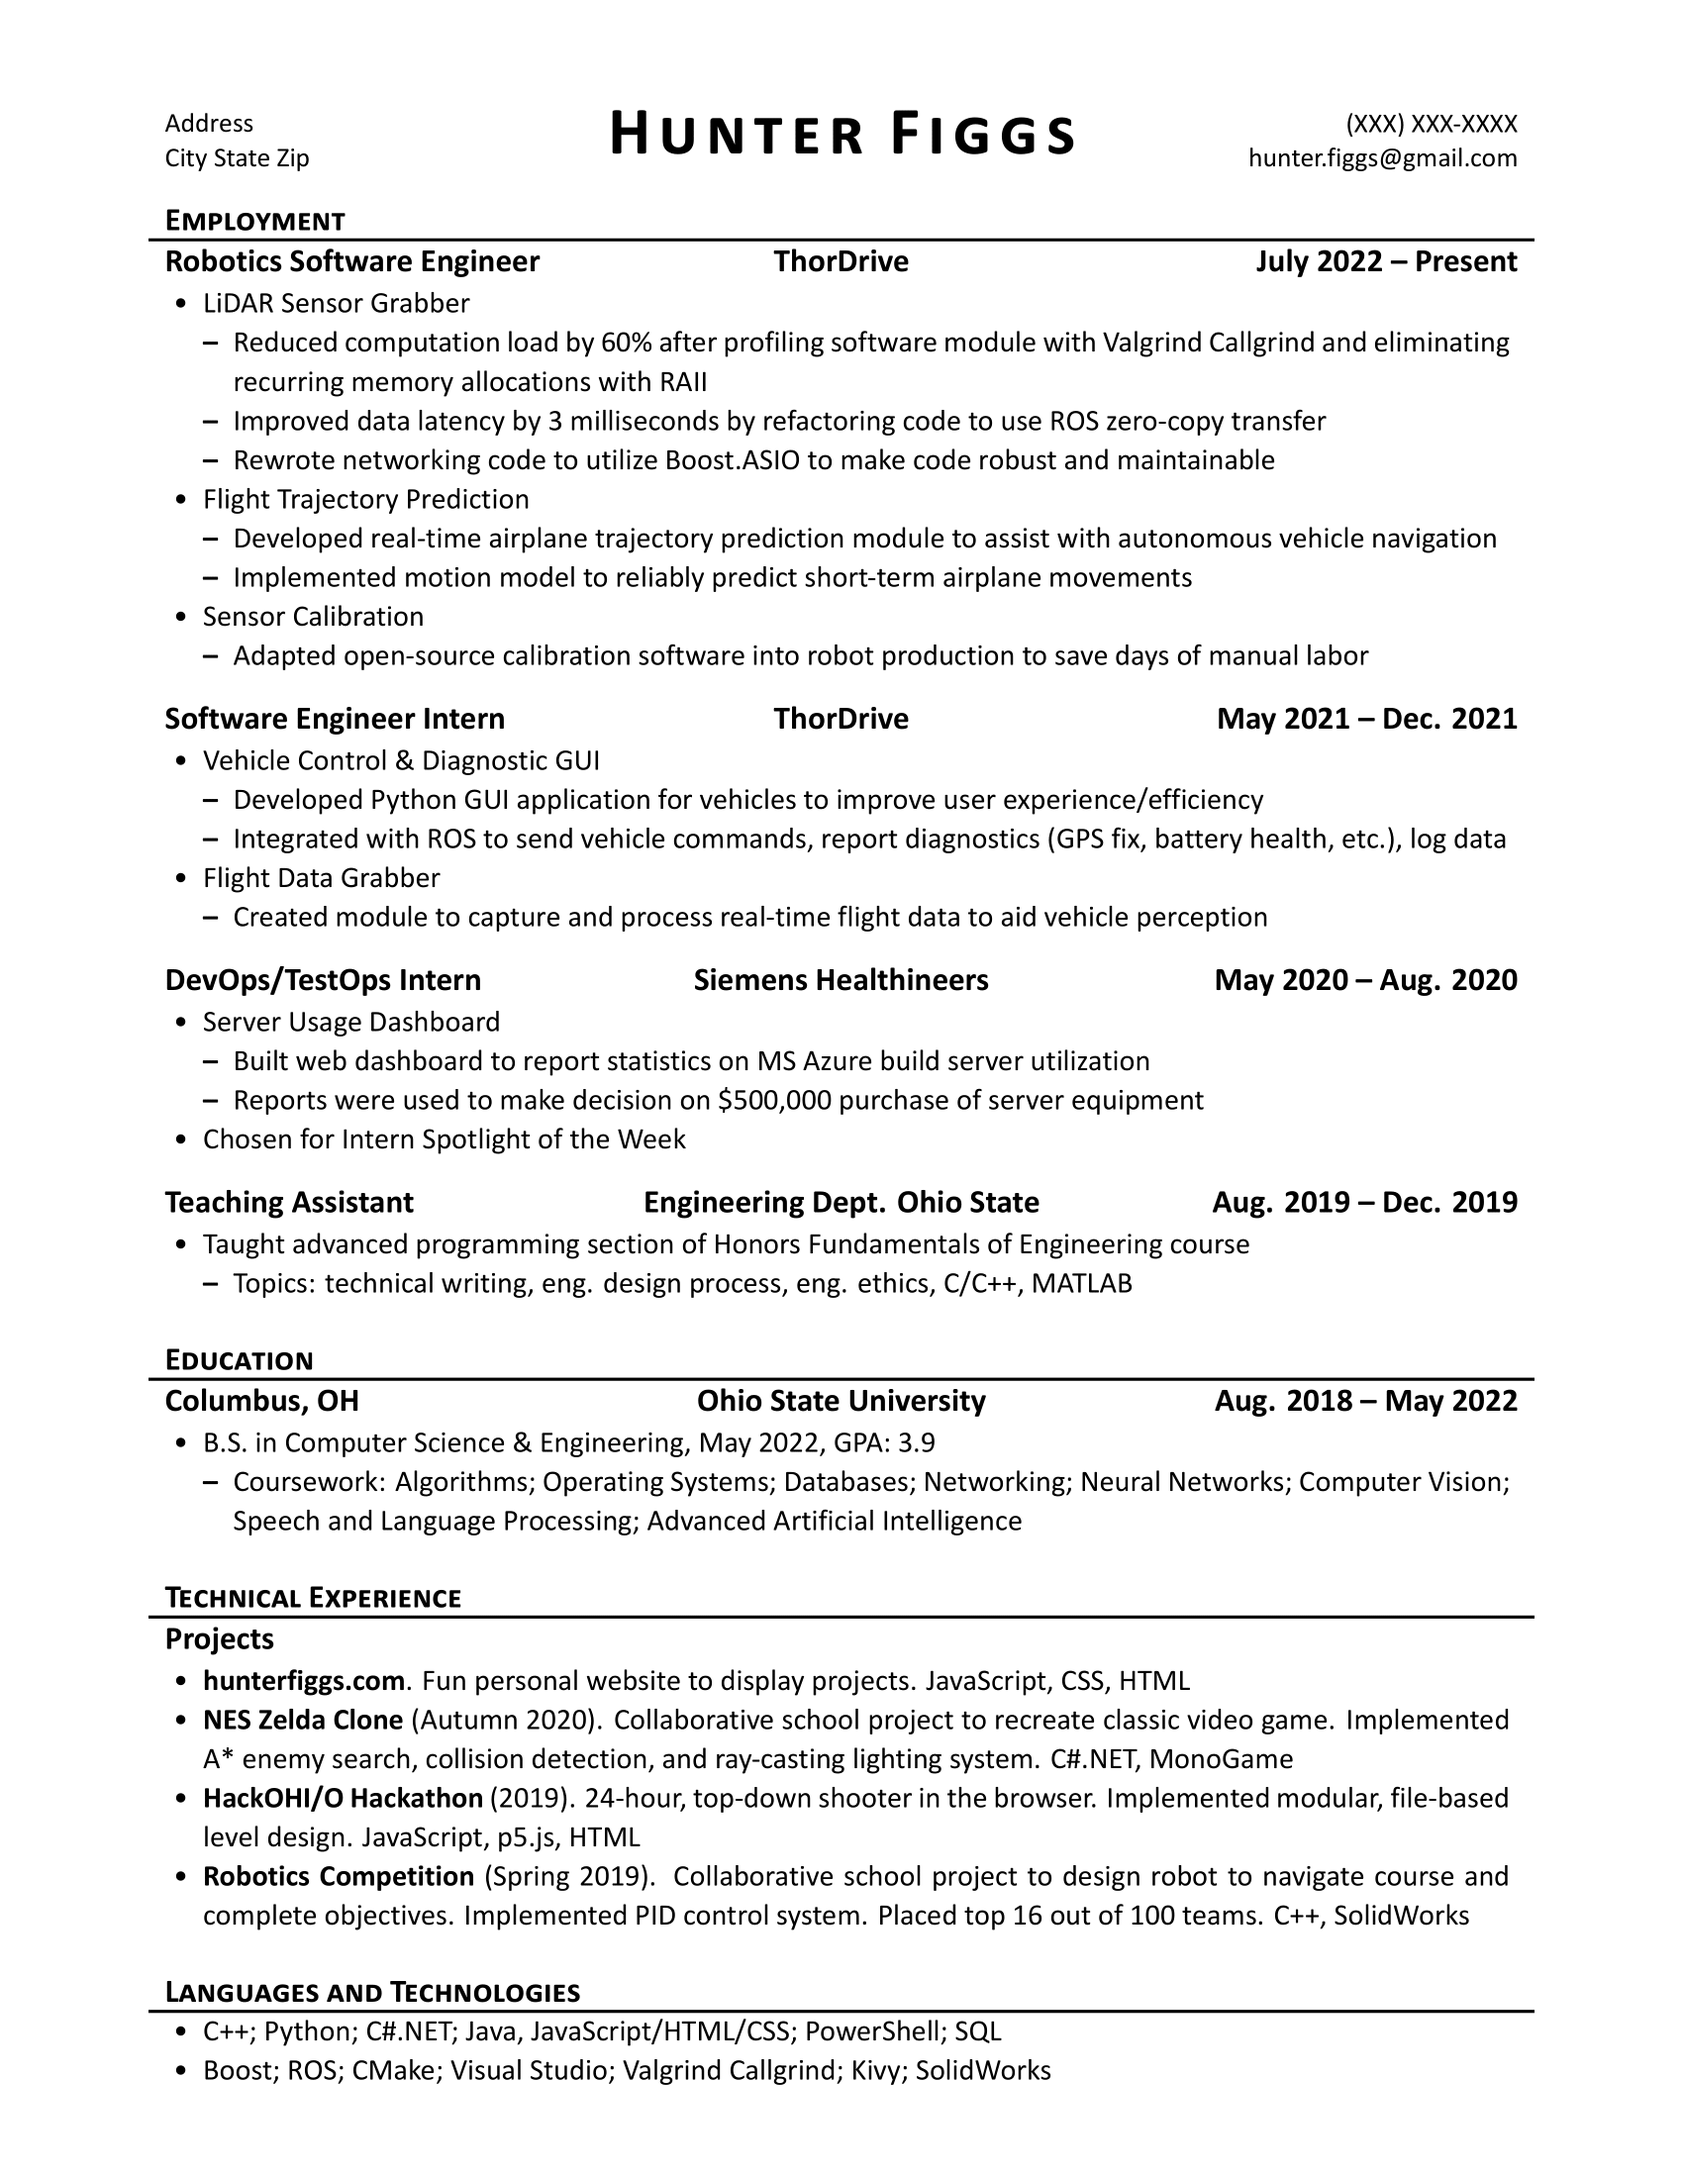
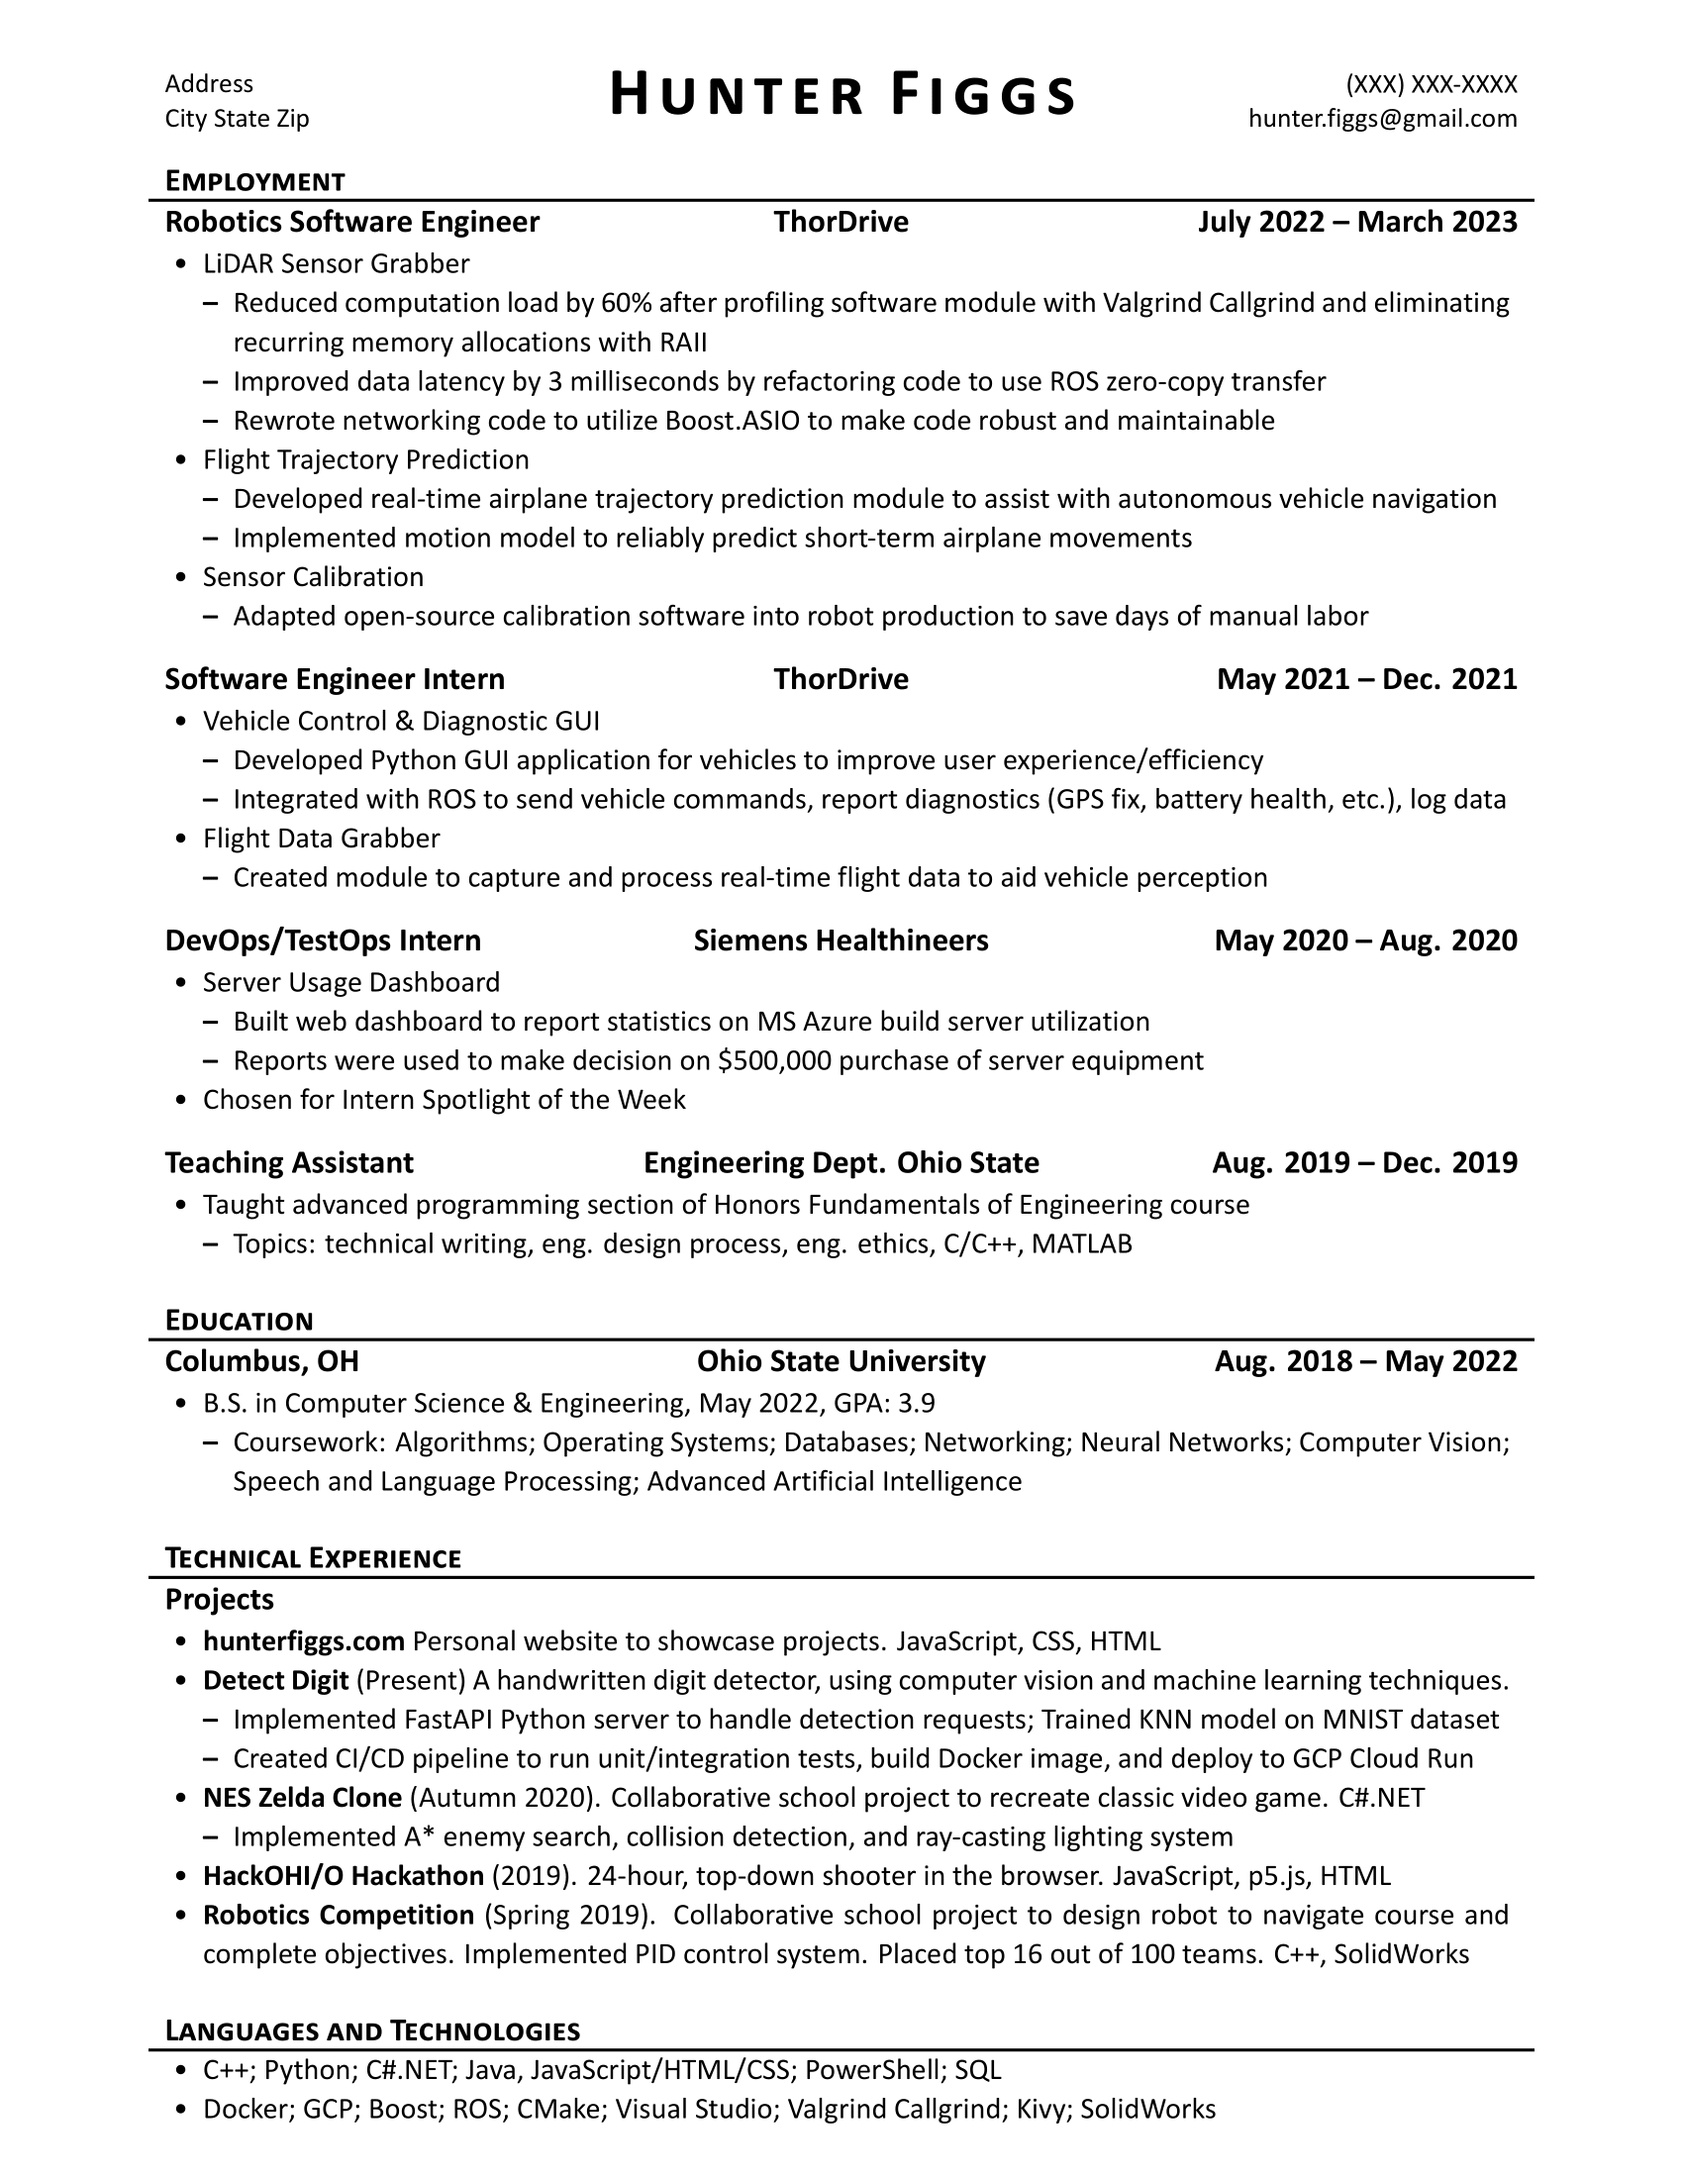
Update with latest project details

Changed region(s): [[0.0935, 0.0309, 0.9041, 0.9891], [0.6547, 0.9582, 0.7171, 0.9891]]

diff --git a/my-resume.tex b/my-resume.tex
@@ -118,9 +118,17 @@
 	\begin{cvsection}{Technical Experience}
 		\begin{cvsubsection}{Projects}{}{}
 			\begin{itemize}
-				\item \textbf{\href[pdfnewwindow=true]{https://www.hunterfiggs.com}{hunterfiggs.com}}. Fun personal website to display projects. JavaScript, CSS, HTML
-				\item \textbf{\href[pdfnewwindow=true]{https://www.hunterfiggs.com/projects/zelda-clone/zelda-clone.html}{NES Zelda Clone}} (Autumn 2020). Collaborative school project to recreate classic video game. Implemented A* enemy search, collision detection, and ray-casting lighting system. C\#.NET, MonoGame
-				\item \textbf{HackOHI/O Hackathon} (2019). 24-hour, top-down shooter in the browser. Implemented modular, file-based level design. JavaScript, p5.js, HTML
+				\item \textbf{\href[pdfnewwindow=true]{https://github.com/hfiggs/hunterfiggs.com}{hunterfiggs.com}} Personal website to showcase projects. JavaScript, CSS, HTML
+				\item \textbf{\href[pdfnewwindow=true]{https://www.hunterfiggs.com/projects/detect-digit}{Detect Digit}} (Present) A handwritten digit detector, using computer vision and machine learning techniques.
+				\begin{itemize}
+					\item Implemented FastAPI Python server to handle detection requests; Trained KNN model on MNIST dataset
+					\item Created CI/CD pipeline to run unit/integration tests, build Docker image, and deploy to GCP Cloud Run
+				\end{itemize}
+				\item \textbf{\href[pdfnewwindow=true]{https://www.hunterfiggs.com/projects/zelda-clone/zelda-clone.html}{NES Zelda Clone}} (Autumn 2020). Collaborative school project to recreate classic video game. C\#.NET
+				\begin{itemize}
+					\item Implemented A* enemy search, collision detection, and ray-casting lighting system
+				\end{itemize}
+				\item \textbf{HackOHI/O Hackathon} (2019). 24-hour, top-down shooter in the browser. JavaScript, p5.js, HTML
 				\item \textbf{Robotics Competition} (Spring 2019). Collaborative school project to design robot to navigate course and complete objectives. Implemented PID control system. Placed top 16 out of 100 teams. C++, SolidWorks
 			\end{itemize}
 		\end{cvsubsection}
@@ -130,7 +138,7 @@
 		\begin{cvsubsection}{}{}{}
 			\begin{itemize}
 				\item C++; Python; C\#.NET; Java, JavaScript/HTML/CSS; PowerShell; SQL
-				\item Boost; ROS; CMake; Visual Studio; Valgrind Callgrind; Kivy; SolidWorks
+				\item Docker; GCP; Boost; ROS; CMake; Visual Studio; Valgrind Callgrind; Kivy; SolidWorks
 			\end{itemize}
 		\end{cvsubsection}
 	\end{cvsection}
